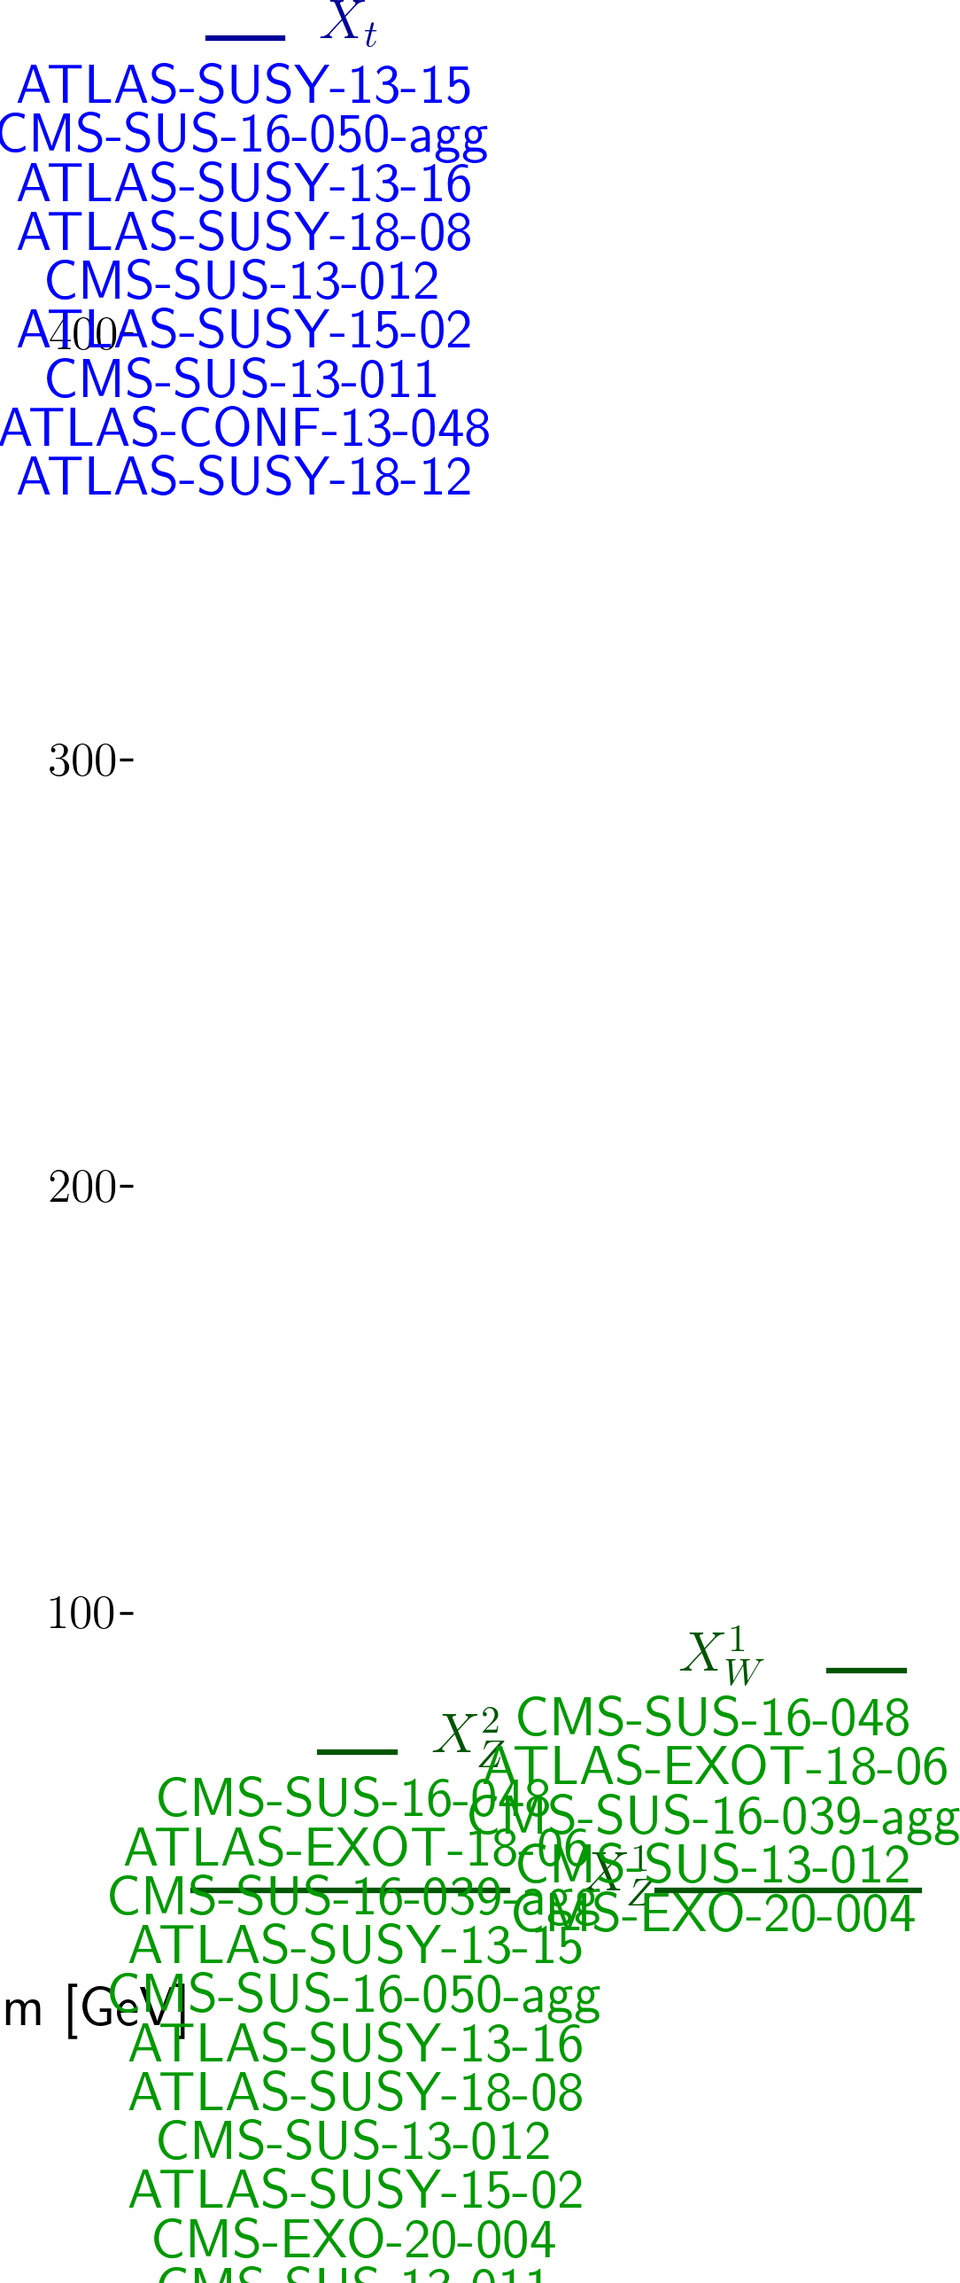
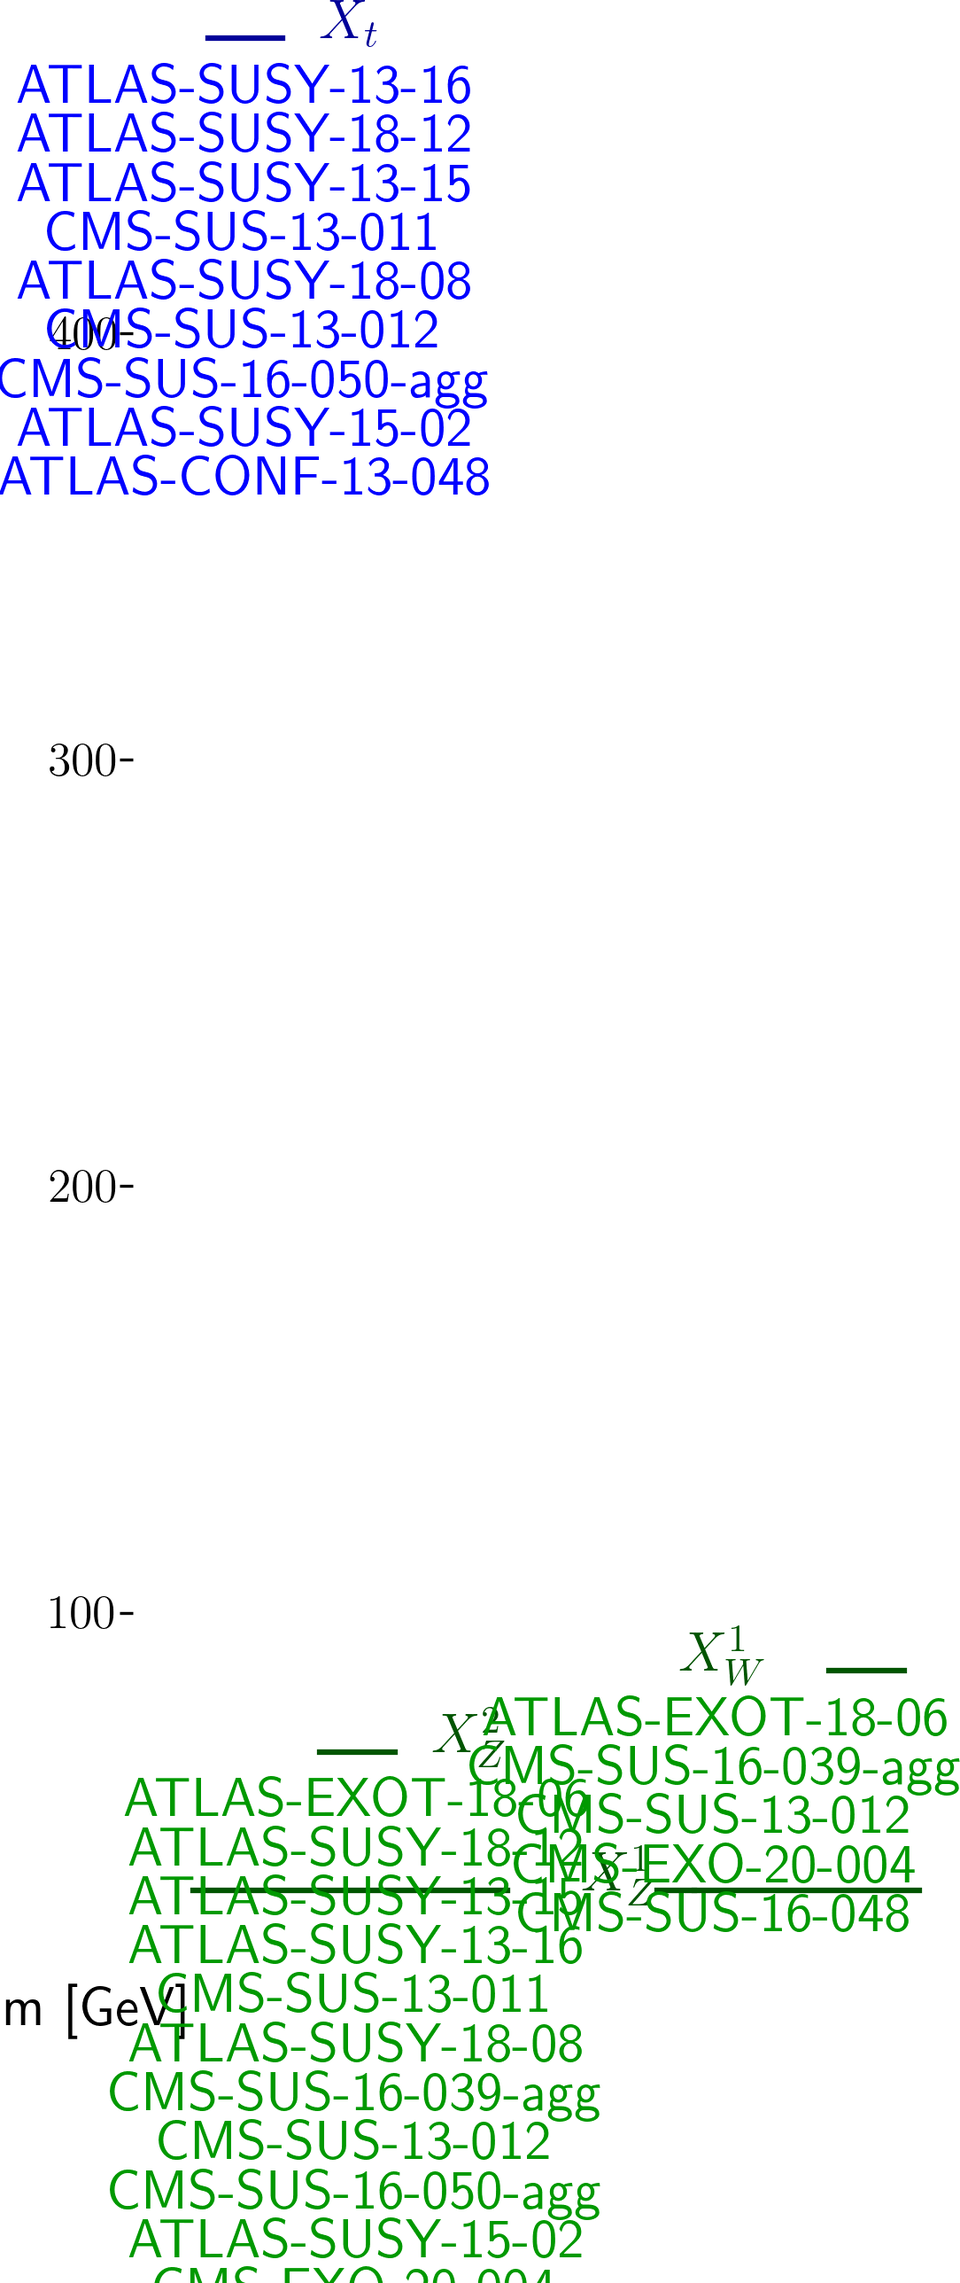
automated update by plotHiscore.py to ewk6_310:     K=20.430 TL=25.98 walkerid=0

Changed region(s): [[0.1218, 0.7453, 1.0, 1.0], [0.0, 0.0311, 0.5175, 0.2174]]

diff --git a/protomodels/ewk6_310/rawnumbers.html b/protomodels/ewk6_310/rawnumbers.html
@@ -12,7 +12,7 @@
 <tr><td><a href=https://atlas.web.cern.ch/Atlas/GROUPS/PHYSICS/PAPERS/SUSY-2013-15/>ATLAS-SUSY-2013-15</a></td><td>em</td> <td>tNboost</td><td>T2tt</td><td>5</td><td>3.30 +/- 0.70</td><td style="text-align:right">0.9 &sigma;</td><td style="text-align:right">X<sup>1</sup><sub>Z</sub>, X<sub>t</sub>, X<sup>2</sup><sub>Z</sub></td></tr>
 <tr><td><a href=https://twiki.cern.ch/twiki/bin/view/CMSPublic/PhysicsResultsSUS13012>CMS-SUS-13-012</a></td><td>em</td> <td>6NJet8_800HT100 ...</td><td>T1bbbb, T2tt, T6bbWWoff</td><td>35</td><td>28.60 +/- 6.90</td><td style="text-align:right">0.7 &sigma;</td><td style="text-align:right">X<sup>1</sup><sub>W</sub>, X<sup>1</sup><sub>Z</sub>, X<sub>t</sub>, X<sup>2</sup><sub>Z</sub></td></tr>
 <tr><td><a href=http://cms-results.web.cern.ch/cms-results/public-results/publications/SUS-16-050/index.html>CMS-SUS-16-050-agg</a></td><td>comb</td> <td>-</td><td>T2tt</td><td> 3 fb </td><td> 4 fb</td><td style="text-align:right">0.5 &sigma;</td><td style="text-align:right">X<sup>1</sup><sub>Z</sub>, X<sub>t</sub>, X<sup>2</sup><sub>Z</sub></td></tr>
-<tr><td><a href=https://twiki.cern.ch/twiki/bin/view/CMSPublic/PhysicsResultsSUS13011>CMS-SUS-13-011</a></td><td>em</td> <td>LM150</td><td>T2tt</td><td>227</td><td>251.00 +/- 50.00</td><td style="text-align:right">-0.4 &sigma;</td><td style="text-align:right">X<sup>1</sup><sub>Z</sub>, X<sub>t</sub>, X<sup>2</sup><sub>Z</sub></td></tr>
+<tr><td><a href=https://twiki.cern.ch/twiki/bin/view/CMSPublic/PhysicsResultsSUS13011>CMS-SUS-13-011</a></td><td>em</td> <td>LM150</td><td>T2tt</td><td>227</td><td>251.00 +/- 50.00</td><td style="text-align:right">-0.5 &sigma;</td><td style="text-align:right">X<sup>1</sup><sub>Z</sub>, X<sub>t</sub>, X<sup>2</sup><sub>Z</sub></td></tr>
 <tr><td><a href=https://atlas.web.cern.ch/Atlas/GROUPS/PHYSICS/CONFNOTES/ATLAS-CONF-2013-048/>ATLAS-CONF-2013-048</a></td><td>em</td> <td>SR M90</td><td>T2tt</td><td>260</td><td>300.00 +/- 40.00</td><td style="text-align:right">-0.9 &sigma;</td><td style="text-align:right">X<sup>1</sup><sub>Z</sub>, X<sub>t</sub>, X<sup>2</sup><sub>Z</sub></td></tr>
 </table>
 <table style='color:grey'>
@@ -30,23 +30,23 @@
 <tr><td><a href=https://atlas.web.cern.ch/Atlas/GROUPS/PHYSICS/CONFNOTES/ATLAS-CONF-2013-047/>ATLAS-CONF-2013-047</a></td><td>em</td> <td>E Tight</td><td>T2tt</td><td>5</td><td>2.90 +/- 1.80</td><td style="text-align:right">0.8 &sigma;</td><td style="text-align:right">X<sup>1</sup><sub>Z</sub>, X<sub>t</sub>, X<sup>2</sup><sub>Z</sub></td></tr>
 <tr><td><a href=https://twiki.cern.ch/twiki/bin/view/CMSPublic/PhysicsResultsSUS13015>CMS-PAS-SUS-13-015</a></td><td>em</td> <td>pTmiss350_Nb2</td><td>T2tt</td><td>15</td><td>8.60 +/- 7.10</td><td style="text-align:right">0.8 &sigma;</td><td style="text-align:right">X<sup>1</sup><sub>Z</sub>, X<sub>t</sub>, X<sup>2</sup><sub>Z</sub></td></tr>
 <tr><td><a href=https://atlas.web.cern.ch/Atlas/GROUPS/PHYSICS/CONFNOTES/ATLAS-CONF-2013-054/>ATLAS-CONF-2013-054</a></td><td>em</td> <td>8j50 flavor 0 b ...</td><td>T2tt</td><td>40</td><td>35.00 +/- 4.00</td><td style="text-align:right">0.7 &sigma;</td><td style="text-align:right">X<sup>1</sup><sub>Z</sub>, X<sub>t</sub>, X<sup>2</sup><sub>Z</sub></td></tr>
-<tr><td><a href=https://atlas.web.cern.ch/Atlas/GROUPS/PHYSICS/PAPERS/SUSY-2013-04/>ATLAS-SUSY-2013-04</a></td><td>em</td> <td>GtGrid_SR_8ej50 ...</td><td>T2tt</td><td>40</td><td>35.00 +/- 4.00</td><td style="text-align:right">0.7 &sigma;</td><td style="text-align:right">X<sup>1</sup><sub>Z</sub>, X<sub>t</sub>, X<sup>2</sup><sub>Z</sub></td></tr>
 <tr><td><a href=https://atlas.web.cern.ch/Atlas/GROUPS/PHYSICS/CONFNOTES/ATLAS-CONF-2013-062/>ATLAS-CONF-2013-062</a></td><td>em</td> <td>SL1b_low</td><td>T2tt</td><td>8</td><td>6.10 +/- 1.40</td><td style="text-align:right">0.7 &sigma;</td><td style="text-align:right">X<sup>1</sup><sub>Z</sub>, X<sub>t</sub>, X<sup>2</sup><sub>Z</sub></td></tr>
+<tr><td><a href=https://atlas.web.cern.ch/Atlas/GROUPS/PHYSICS/PAPERS/SUSY-2013-04/>ATLAS-SUSY-2013-04</a></td><td>em</td> <td>GtGrid_SR_8ej50 ...</td><td>T2tt</td><td>40</td><td>35.00 +/- 4.00</td><td style="text-align:right">0.7 &sigma;</td><td style="text-align:right">X<sup>1</sup><sub>Z</sub>, X<sub>t</sub>, X<sup>2</sup><sub>Z</sub></td></tr>
 <tr><td><a href=https://atlas.web.cern.ch/Atlas/GROUPS/PHYSICS/CONFNOTES/ATLAS-CONF-2013-037/>ATLAS-CONF-2013-037</a></td><td>em</td> <td>SRtN3</td><td>T2tt</td><td>7</td><td>5.00 +/- 2.00</td><td style="text-align:right">0.7 &sigma;</td><td style="text-align:right">X<sup>1</sup><sub>Z</sub>, X<sub>t</sub>, X<sup>2</sup><sub>Z</sub></td></tr>
 <tr><td><a href=https://atlas.web.cern.ch/Atlas/GROUPS/PHYSICS/PAPERS/SUSY-2013-04/>ATLAS-SUSY-2013-04</a></td><td>em</td> <td>GtGrid_SR_9ej50 ...</td><td>T2tt</td><td>8</td><td>6.10 +/- 1.70</td><td style="text-align:right">0.7 &sigma;</td><td style="text-align:right">X<sup>1</sup><sub>Z</sub>, X<sub>t</sub>, X<sup>2</sup><sub>Z</sub></td></tr>
-<tr><td><a href=http://cms-results.web.cern.ch/cms-results/public-results/publications/SUS-16-033/index.html>CMS-SUS-16-033</a></td><td>em</td> <td>SR6_Njet2_Nb2_H ...</td><td>T2tt</td><td>216</td><td>196.00 +/- 28.00</td><td style="text-align:right">0.7 &sigma;</td><td style="text-align:right">X<sup>1</sup><sub>Z</sub>, X<sub>t</sub>, X<sup>2</sup><sub>Z</sub></td></tr>
+<tr><td><a href=http://cms-results.web.cern.ch/cms-results/public-results/publications/SUS-16-033/index.html>CMS-SUS-16-033</a></td><td>em</td> <td>SR6_Njet2_Nb2_H ...</td><td>T2tt</td><td>216</td><td>196.00 +/- 28.00</td><td style="text-align:right">0.6 &sigma;</td><td style="text-align:right">X<sup>1</sup><sub>Z</sub>, X<sub>t</sub>, X<sup>2</sup><sub>Z</sub></td></tr>
 <tr><td><a href=https://atlas.web.cern.ch/Atlas/GROUPS/PHYSICS/CONFNOTES/ATLAS-CONF-2013-047/>ATLAS-CONF-2013-047</a></td><td>em</td> <td>A Medium</td><td>T2tt</td><td>135</td><td>122.00 +/- 18.00</td><td style="text-align:right">0.6 &sigma;</td><td style="text-align:right">X<sup>1</sup><sub>Z</sub>, X<sub>t</sub>, X<sup>2</sup><sub>Z</sub></td></tr>
 <tr><td><a href=http://cms-results.web.cern.ch/cms-results/public-results/publications/SUS-16-033/index.html>CMS-SUS-16-033</a></td><td>em</td> <td>SR1_Njet2_Nb0_H ...</td><td>T2tt</td><td>7838</td><td>7584.00 +/- 433.00</td><td style="text-align:right">0.6 &sigma;</td><td style="text-align:right">X<sup>1</sup><sub>Z</sub>, X<sub>t</sub>, X<sup>2</sup><sub>Z</sub></td></tr>
-<tr><td><a href=https://atlas.web.cern.ch/Atlas/GROUPS/PHYSICS/CONFNOTES/ATLAS-CONF-2013-062/>ATLAS-CONF-2013-062</a></td><td>em</td> <td>SL3j</td><td>T2tt</td><td>7</td><td>5.60 +/- 1.60</td><td style="text-align:right">0.5 &sigma;</td><td style="text-align:right">X<sup>1</sup><sub>Z</sub>, X<sub>t</sub>, X<sup>2</sup><sub>Z</sub></td></tr>
+<tr><td><a href=https://atlas.web.cern.ch/Atlas/GROUPS/PHYSICS/CONFNOTES/ATLAS-CONF-2013-062/>ATLAS-CONF-2013-062</a></td><td>em</td> <td>SL3j</td><td>T2tt</td><td>7</td><td>5.60 +/- 1.60</td><td style="text-align:right">0.6 &sigma;</td><td style="text-align:right">X<sup>1</sup><sub>Z</sub>, X<sub>t</sub>, X<sup>2</sup><sub>Z</sub></td></tr>
 <tr><td><a href=http://cms-results.web.cern.ch/cms-results/public-results/publications/SUS-16-033/index.html>CMS-SUS-16-033</a></td><td>em</td> <td>SR12_Njet5_Nb1_ ...</td><td>T2tt</td><td>48</td><td>42.20 +/- 9.70</td><td style="text-align:right">0.5 &sigma;</td><td style="text-align:right">X<sup>1</sup><sub>Z</sub>, X<sub>t</sub>, X<sup>2</sup><sub>Z</sub></td></tr>
-<tr><td><a href=https://atlas.web.cern.ch/Atlas/GROUPS/PHYSICS/CONFNOTES/ATLAS-CONF-2013-047/>ATLAS-CONF-2013-047</a></td><td>em</td> <td>D</td><td>T2tt</td><td>18</td><td>15.00 +/- 5.00</td><td style="text-align:right">0.5 &sigma;</td><td style="text-align:right">X<sup>1</sup><sub>Z</sub>, X<sub>t</sub>, X<sup>2</sup><sub>Z</sub></td></tr>
 <tr><td><a href=https://atlas.web.cern.ch/Atlas/GROUPS/PHYSICS/CONFNOTES/ATLAS-CONF-2013-053/>ATLAS-CONF-2013-053</a></td><td>em</td> <td>SRA mCT150</td><td>T2tt</td><td>102</td><td>94.00 +/- 13.00</td><td style="text-align:right">0.5 &sigma;</td><td style="text-align:right">X<sup>1</sup><sub>Z</sub>, X<sub>t</sub>, X<sup>2</sup><sub>Z</sub></td></tr>
+<tr><td><a href=https://atlas.web.cern.ch/Atlas/GROUPS/PHYSICS/CONFNOTES/ATLAS-CONF-2013-047/>ATLAS-CONF-2013-047</a></td><td>em</td> <td>D</td><td>T2tt</td><td>18</td><td>15.00 +/- 5.00</td><td style="text-align:right">0.5 &sigma;</td><td style="text-align:right">X<sup>1</sup><sub>Z</sub>, X<sub>t</sub>, X<sup>2</sup><sub>Z</sub></td></tr>
 <tr><td><a href=http://cms-results.web.cern.ch/cms-results/public-results/publications/SUS-16-033/index.html>CMS-SUS-16-033</a></td><td>em</td> <td>SR7_Njet3_Nb1_H ...</td><td>T2tt</td><td>123</td><td>113.00 +/- 18.00</td><td style="text-align:right">0.5 &sigma;</td><td style="text-align:right">X<sup>1</sup><sub>Z</sub>, X<sub>t</sub>, X<sup>2</sup><sub>Z</sub></td></tr>
 <tr><td><a href=https://atlas.web.cern.ch/Atlas/GROUPS/PHYSICS/CONFNOTES/ATLAS-CONF-2013-047/>ATLAS-CONF-2013-047</a></td><td>em</td> <td>C Medium</td><td>T2tt</td><td>228</td><td>210.00 +/- 40.00</td><td style="text-align:right">0.4 &sigma;</td><td style="text-align:right">X<sup>1</sup><sub>Z</sub>, X<sub>t</sub>, X<sup>2</sup><sub>Z</sub></td></tr>
-<tr><td><a href=https://twiki.cern.ch/twiki/bin/view/CMSPublic/PhysicsResultsSUS13015>CMS-PAS-SUS-13-015</a></td><td>em</td> <td>pTmiss350_Nb1</td><td>T2tt</td><td>45</td><td>40.90 +/- 9.60</td><td style="text-align:right">0.4 &sigma;</td><td style="text-align:right">X<sup>1</sup><sub>Z</sub>, X<sub>t</sub>, X<sup>2</sup><sub>Z</sub></td></tr>
 <tr><td><a href=http://cms-results.web.cern.ch/cms-results/public-results/publications/SUS-16-033/index.html>CMS-SUS-16-033</a></td><td>em</td> <td>SR9_NJet5_Nb2_H ...</td><td>T2tt</td><td>6</td><td>4.40 +/- 3.40</td><td style="text-align:right">0.4 &sigma;</td><td style="text-align:right">X<sup>1</sup><sub>Z</sub>, X<sub>t</sub>, X<sup>2</sup><sub>Z</sub></td></tr>
-<tr><td><a href=https://atlas.web.cern.ch/Atlas/GROUPS/PHYSICS/PAPERS/SUSY-2013-04/>ATLAS-SUSY-2013-04</a></td><td>em</td> <td>GtGrid_SR_8ej50 ...</td><td>T1bbbb, T2tt</td><td>44</td><td>40.00 +/- 10.00</td><td style="text-align:right">0.4 &sigma;</td><td style="text-align:right">X<sub>t</sub>, X<sup>1</sup><sub>Z</sub>, X<sup>2</sup><sub>Z</sub></td></tr>
+<tr><td><a href=https://twiki.cern.ch/twiki/bin/view/CMSPublic/PhysicsResultsSUS13015>CMS-PAS-SUS-13-015</a></td><td>em</td> <td>pTmiss350_Nb1</td><td>T2tt</td><td>45</td><td>40.90 +/- 9.60</td><td style="text-align:right">0.4 &sigma;</td><td style="text-align:right">X<sup>1</sup><sub>Z</sub>, X<sub>t</sub>, X<sup>2</sup><sub>Z</sub></td></tr>
 <tr><td><a href=https://atlas.web.cern.ch/Atlas/GROUPS/PHYSICS/CONFNOTES/ATLAS-CONF-2013-054/>ATLAS-CONF-2013-054</a></td><td>em</td> <td>8j50 flavor 1 b ...</td><td>T2tt</td><td>44</td><td>40.00 +/- 10.00</td><td style="text-align:right">0.4 &sigma;</td><td style="text-align:right">X<sup>1</sup><sub>Z</sub>, X<sub>t</sub>, X<sup>2</sup><sub>Z</sub></td></tr>
+<tr><td><a href=https://atlas.web.cern.ch/Atlas/GROUPS/PHYSICS/PAPERS/SUSY-2013-04/>ATLAS-SUSY-2013-04</a></td><td>em</td> <td>GtGrid_SR_8ej50 ...</td><td>T1bbbb, T2tt</td><td>44</td><td>40.00 +/- 10.00</td><td style="text-align:right">0.4 &sigma;</td><td style="text-align:right">X<sub>t</sub>, X<sup>1</sup><sub>Z</sub>, X<sup>2</sup><sub>Z</sub></td></tr>
 <tr><td><a href=https://atlas.web.cern.ch/Atlas/GROUPS/PHYSICS/PAPERS/SUSY-2013-04/>ATLAS-SUSY-2013-04</a></td><td>em</td> <td>GtGrid_SR_7ej80 ...</td><td>T2tt</td><td>12</td><td>11.00 +/- 2.20</td><td style="text-align:right">0.3 &sigma;</td><td style="text-align:right">X<sup>1</sup><sub>Z</sub>, X<sub>t</sub>, X<sup>2</sup><sub>Z</sub></td></tr>
 <tr><td><a href=http://cms-results.web.cern.ch/cms-results/public-results/publications/SUS-16-033/index.html>CMS-SUS-16-033</a></td><td>em</td> <td>SR4_Njet5_Nb0_H ...</td><td>T2tt</td><td>25</td><td>23.00 +/- 6.50</td><td style="text-align:right">0.3 &sigma;</td><td style="text-align:right">X<sup>1</sup><sub>Z</sub>, X<sub>t</sub>, X<sup>2</sup><sub>Z</sub></td></tr>
 <tr><td><a href=https://atlas.web.cern.ch/Atlas/GROUPS/PHYSICS/CONFNOTES/ATLAS-CONF-2013-037/>ATLAS-CONF-2013-037</a></td><td>em</td> <td>SRtN2</td><td>T2tt</td><td>14</td><td>13.00 +/- 3.00</td><td style="text-align:right">0.3 &sigma;</td><td style="text-align:right">X<sup>1</sup><sub>Z</sub>, X<sub>t</sub>, X<sup>2</sup><sub>Z</sub></td></tr>
@@ -55,7 +55,7 @@
 <tr><td><a href=https://atlas.web.cern.ch/Atlas/GROUPS/PHYSICS/CONFNOTES/ATLAS-CONF-2013-062/>ATLAS-CONF-2013-062</a></td><td>em</td> <td>incHL6j_e</td><td>T2tt</td><td>2</td><td>2.00 +/- 0.70</td><td style="text-align:right">0.1 &sigma;</td><td style="text-align:right">X<sup>1</sup><sub>Z</sub>, X<sub>t</sub>, X<sup>2</sup><sub>Z</sub></td></tr>
 <tr><td><a href=https://atlas.web.cern.ch/Atlas/GROUPS/PHYSICS/CONFNOTES/ATLAS-CONF-2013-053/>ATLAS-CONF-2013-053</a></td><td>em</td> <td>SRB</td><td>T2tt</td><td>65</td><td>64.00 +/- 10.00</td><td style="text-align:right">0.1 &sigma;</td><td style="text-align:right">X<sup>1</sup><sub>Z</sub>, X<sub>t</sub>, X<sup>2</sup><sub>Z</sub></td></tr>
 <tr><td><a href=https://atlas.web.cern.ch/Atlas/GROUPS/PHYSICS/CONFNOTES/ATLAS-CONF-2013-093/>ATLAS-CONF-2013-093</a></td><td>em</td> <td>SRBh</td><td>T2tt</td><td>2</td><td>2.10 +/- 0.70</td><td style="text-align:right">0.1 &sigma;</td><td style="text-align:right">X<sup>1</sup><sub>Z</sub>, X<sub>t</sub>, X<sup>2</sup><sub>Z</sub></td></tr>
-<tr><td><a href=https://atlas.web.cern.ch/Atlas/GROUPS/PHYSICS/PAPERS/SUSY-2013-04/>ATLAS-SUSY-2013-04</a></td><td>em</td> <td>GtGrid_SR_7ej80 ...</td><td>T2tt</td><td>17</td><td>17.00 +/- 6.00</td><td style="text-align:right">0.1 &sigma;</td><td style="text-align:right">X<sup>1</sup><sub>Z</sub>, X<sub>t</sub>, X<sup>2</sup><sub>Z</sub></td></tr>
+<tr><td><a href=https://atlas.web.cern.ch/Atlas/GROUPS/PHYSICS/PAPERS/SUSY-2013-04/>ATLAS-SUSY-2013-04</a></td><td>em</td> <td>GtGrid_SR_7ej80 ...</td><td>T2tt</td><td>17</td><td>17.00 +/- 6.00</td><td style="text-align:right">0.0 &sigma;</td><td style="text-align:right">X<sup>1</sup><sub>Z</sub>, X<sub>t</sub>, X<sup>2</sup><sub>Z</sub></td></tr>
 <tr><td><a href=https://twiki.cern.ch/twiki/bin/view/CMSPublic/PhysicsResultsSUS13015>CMS-PAS-SUS-13-015</a></td><td>em</td> <td>pTmiss200_Nb1</td><td>T2tt</td><td>254</td><td>254.30 +/- 35.00</td><td style="text-align:right">0.0 &sigma;</td><td style="text-align:right">X<sup>1</sup><sub>Z</sub>, X<sub>t</sub>, X<sup>2</sup><sub>Z</sub></td></tr>
 <tr><td><a href=https://atlas.web.cern.ch/Atlas/GROUPS/PHYSICS/CONFNOTES/ATLAS-CONF-2013-061/>ATLAS-CONF-2013-061</a></td><td>em</td> <td>SR-0l-7j-A</td><td>T2tt</td><td>22</td><td>22.50 +/- 6.90</td><td style="text-align:right">-0.0 &sigma;</td><td style="text-align:right">X<sup>1</sup><sub>Z</sub>, X<sub>t</sub>, X<sup>2</sup><sub>Z</sub></td></tr>
 <tr><td><a href=https://atlas.web.cern.ch/Atlas/GROUPS/PHYSICS/PAPERS/SUSY-2013-04/>ATLAS-SUSY-2013-04</a></td><td>em</td> <td>GtGrid_SR_8ij80 ...</td><td>T2tt</td><td>3</td><td>3.30 +/- 2.20</td><td style="text-align:right">-0.1 &sigma;</td><td style="text-align:right">X<sup>1</sup><sub>Z</sub>, X<sub>t</sub>, X<sup>2</sup><sub>Z</sub></td></tr>
@@ -63,8 +63,8 @@
 <tr><td><a href=https://atlas.web.cern.ch/Atlas/GROUPS/PHYSICS/CONFNOTES/ATLAS-CONF-2013-037/>ATLAS-CONF-2013-037</a></td><td>em</td> <td>SRbC3</td><td>T2tt</td><td>6</td><td>7.00 +/- 3.00</td><td style="text-align:right">-0.2 &sigma;</td><td style="text-align:right">X<sup>1</sup><sub>Z</sub>, X<sub>t</sub>, X<sup>2</sup><sub>Z</sub></td></tr>
 <tr><td><a href=https://atlas.web.cern.ch/Atlas/GROUPS/PHYSICS/PAPERS/SUSY-2013-04/>ATLAS-SUSY-2013-04</a></td><td>em</td> <td>GtGrid_SR_9ej50 ...</td><td>T2tt</td><td>7</td><td>8.00 +/- 2.70</td><td style="text-align:right">-0.2 &sigma;</td><td style="text-align:right">X<sup>1</sup><sub>Z</sub>, X<sub>t</sub>, X<sup>2</sup><sub>Z</sub></td></tr>
 <tr><td><a href=https://atlas.web.cern.ch/Atlas/GROUPS/PHYSICS/CONFNOTES/ATLAS-CONF-2013-061/>ATLAS-CONF-2013-061</a></td><td>em</td> <td>SR-0l-7j-B</td><td>T2tt</td><td>3</td><td>3.60 +/- 2.50</td><td style="text-align:right">-0.2 &sigma;</td><td style="text-align:right">X<sup>1</sup><sub>Z</sub>, X<sub>t</sub>, X<sup>2</sup><sub>Z</sub></td></tr>
-<tr><td><a href=https://twiki.cern.ch/twiki/bin/view/CMSPublic/PhysicsResultsSUS13015>CMS-PAS-SUS-13-015</a></td><td>em</td> <td>pTmiss200_Nb2</td><td>T2tt</td><td>83</td><td>88.40 +/- 19.80</td><td style="text-align:right">-0.2 &sigma;</td><td style="text-align:right">X<sup>1</sup><sub>Z</sub>, X<sub>t</sub>, X<sup>2</sup><sub>Z</sub></td></tr>
 <tr><td><a href=https://atlas.web.cern.ch/Atlas/GROUPS/PHYSICS/PAPERS/SUSY-2013-04/>ATLAS-SUSY-2013-04</a></td><td>em</td> <td>GtGrid_SR_8ij80 ...</td><td>T2tt</td><td>1</td><td>1.50 +/- 0.90</td><td style="text-align:right">-0.2 &sigma;</td><td style="text-align:right">X<sup>1</sup><sub>Z</sub>, X<sub>t</sub>, X<sup>2</sup><sub>Z</sub></td></tr>
+<tr><td><a href=https://twiki.cern.ch/twiki/bin/view/CMSPublic/PhysicsResultsSUS13015>CMS-PAS-SUS-13-015</a></td><td>em</td> <td>pTmiss200_Nb2</td><td>T2tt</td><td>83</td><td>88.40 +/- 19.80</td><td style="text-align:right">-0.2 &sigma;</td><td style="text-align:right">X<sup>1</sup><sub>Z</sub>, X<sub>t</sub>, X<sup>2</sup><sub>Z</sub></td></tr>
 <tr><td><a href=http://cms-results.web.cern.ch/cms-results/public-results/publications/SUS-16-033/index.html>CMS-SUS-16-033</a></td><td>em</td> <td>SR8_Njet5_Nb3_H ...</td><td>T2tt</td><td>17</td><td>19.50 +/- 8.40</td><td style="text-align:right">-0.2 &sigma;</td><td style="text-align:right">X<sup>1</sup><sub>Z</sub>, X<sub>t</sub>, X<sup>2</sup><sub>Z</sub></td></tr>
 <tr><td><a href=https://atlas.web.cern.ch/Atlas/GROUPS/PHYSICS/CONFNOTES/ATLAS-CONF-2013-054/>ATLAS-CONF-2013-054</a></td><td>em</td> <td>8j50 MJ 340</td><td>T2tt</td><td>69</td><td>75.00 +/- 19.00</td><td style="text-align:right">-0.3 &sigma;</td><td style="text-align:right">X<sup>1</sup><sub>Z</sub>, X<sub>t</sub>, X<sup>2</sup><sub>Z</sub></td></tr>
 <tr><td><a href=https://atlas.web.cern.ch/Atlas/GROUPS/PHYSICS/CONFNOTES/ATLAS-CONF-2013-037/>ATLAS-CONF-2013-037</a></td><td>em</td> <td>SRbC1</td><td>T2tt</td><td>456</td><td>482.00 +/- 76.00</td><td style="text-align:right">-0.3 &sigma;</td><td style="text-align:right">X<sup>1</sup><sub>Z</sub>, X<sub>t</sub>, X<sup>2</sup><sub>Z</sub></td></tr>

diff --git a/protomodels/ewk6_310/index.html b/protomodels/ewk6_310/index.html
@@ -9,16 +9,16 @@
 <br><b>Critics:</b> failed llhd-based critic<br>
 <br><b>LLHD Critic:</b> ATLAS-EXOT-2018-06:EM5, CMS-SUS-16-048:combined, CMS-SUS-16-039-agg:combined, CMS-EXO-20-004:combined, ATLAS-SUSY-2018-12:SRBTT, ATLAS-SUSY-2018-08:SRDF220, ATLAS-SUSY-2016-16:tN_med, CMS-SUS-16-050-agg:combined, ATLAS-SUSY-2013-15:tNmed:: <span style='color: darkgreen;'>robs=1.0, rexp=3.17</span><br>
 <br><b>51 predictions available. Highest r values are:</b><br><ul>
-<li><a href=https://atlas.web.cern.ch/Atlas/GROUPS/PHYSICS/PAPERS/EXOT-2018-06/>ATLAS-EXOT-2018-06</a>:EM5:TChiWWISRqq,TChiZISRll,TChiZISRqq,TChiWISRll,TChiISR r=1.30, r<sub>exp</sub>=1.35<br>
+<li><a href=https://atlas.web.cern.ch/Atlas/GROUPS/PHYSICS/PAPERS/EXOT-2018-06/>ATLAS-EXOT-2018-06</a>:EM5:TChiZISRll,TChiWWISRqq,TChiZISRqq,TChiWISRll,TChiISR r=1.30, r<sub>exp</sub>=1.35<br>
 <li><a href=http://cms-results.web.cern.ch/cms-results/public-results/publications/SUS-20-002/index.html>CMS-SUS-20-002</a>:ul:T2tt r=0.81, r<sub>exp</sub>=0.77<br>
 <li><a href=http://cms-results.web.cern.ch/cms-results/public-results/publications/SUS-19-010/index.html>CMS-SUS-19-010</a>:ul:T2tt r=0.57, r<sub>exp</sub>=0.54<br>
 <li><a href=http://cms-results.web.cern.ch/cms-results/public-results/publications/SUS-16-039/index.html>CMS-SUS-16-039-agg</a>:AR3:TChiWZoff r=0.56, r<sub>exp</sub>=1.08<br>
 </ul>
-<td><img width=600px src=./texdoc.png?1756105515>
-<br><span style='font-size: smaller; color: darkred;'>Last updated: Mon Aug 25 09:05:15 2025</span>
+<td><img width=600px src=./texdoc.png?1756114370>
+<br><span style='font-size: smaller; color: darkred;'>Last updated: Mon Aug 25 11:32:50 2025</span>
 </table><table style="width:80%">
-<td width=45%><img height=580px src=./ruler.png?1756105515><td width=55%><img height=220px src=./decays.png?1756105515>
-<font size=-3><iframe type="text/html" height="350px" width="100%" frameborder="0" src="./rawnumbers.html?1756105515"></iframe></font>
+<td width=45%><img height=580px src=./ruler.png?1756114370><td width=55%><img height=220px src=./decays.png?1756114370>
+<font size=-3><iframe type="text/html" height="350px" width="100%" frameborder="0" src="./rawnumbers.html?1756114370"></iframe></font>
 </table>
 </body>
 </html>
